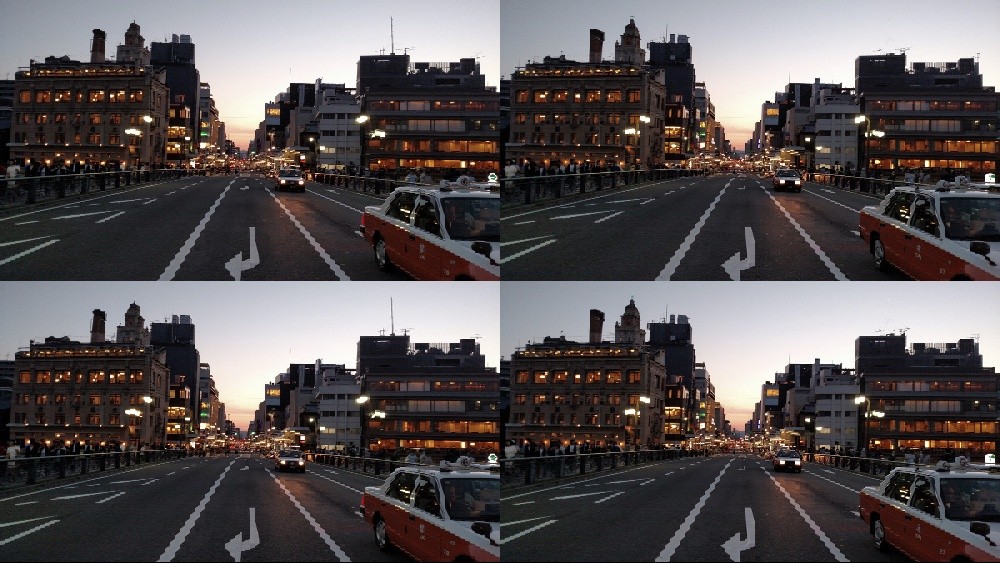
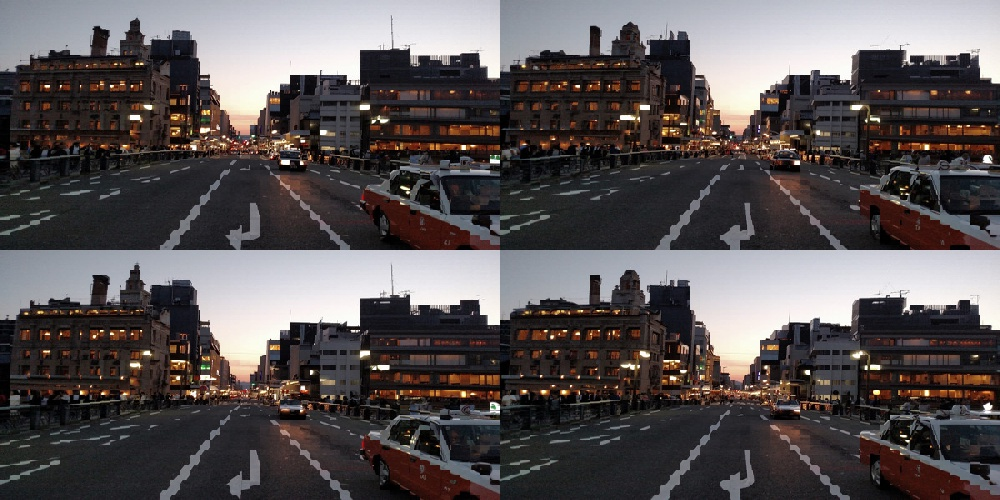
resize image before processing

diff --git a/main.go b/main.go
@@ -68,8 +68,8 @@ func main() {
 	)
 	flag.StringVar(&inputPath, "input", "", "input image")
 	flag.StringVar(&outputPath, "output", "output", "output directory")
-	flag.IntVar(&slidesX, "x", 20, "number of slides as x (small values => high quality output)")
-	flag.IntVar(&slidesY, "y", 20, "number of slides as y (small values => high quality output)")
+	flag.IntVar(&slidesX, "x", 20, "number of slides as x (high values => high quality)")
+	flag.IntVar(&slidesY, "y", 20, "number of slides as y (high values => high quality)")
 	flag.Parse()
 
 	if slidesX*slidesY == 0 {
@@ -86,15 +86,10 @@ func main() {
 		log.Fatalf("failed to open image: %v", err)
 	}
 
+	// Resize image to remove unnecessary bounds.
 	imageSize := src.Bounds().Size()
-	for imageSize.X%slidesX != 0 {
-		slidesX--
-	}
-	for imageSize.Y%slidesY != 0 {
-		slidesY--
-	}
-	slidesX = imageSize.X / slidesX
-	slidesY = imageSize.Y / slidesY
+	src = imaging.Resize(src, (imageSize.X/slidesX)*slidesX, (imageSize.Y/slidesY)*slidesY, imaging.Lanczos)
+	imageSize = src.Bounds().Size()
 
 	outputImage := sliceImageV(sliceImageH(src, imageSize, slidesY), imageSize, slidesX)
 	err = imaging.Save(outputImage, path.Join(outputPath, "output.jpg"))
